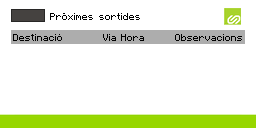
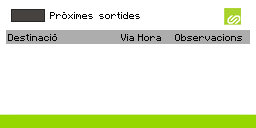
actualitzar background pantalla 5

diff --git a/src/main/java/io/github/janvinas/trensminecat/MapDisplays.java b/src/main/java/io/github/janvinas/trensminecat/MapDisplays.java
@@ -385,7 +385,7 @@ public class MapDisplays{
 
                     getLayer(3).draw(lineIcon, 5, 47 + 15*i);
                     g.setColor(Color.BLACK);
-                    g.drawString(departure.destination, 25, 47 + 15*i);
+                    g.drawString(departure.destination, 26, 47 + 15*i);
                     if(!departure.platform.equals("_")) g.drawString(departure.platform, 120, 47);
                     if(isDelayed) g.setColor(new Color(255, 0, 0));
 
